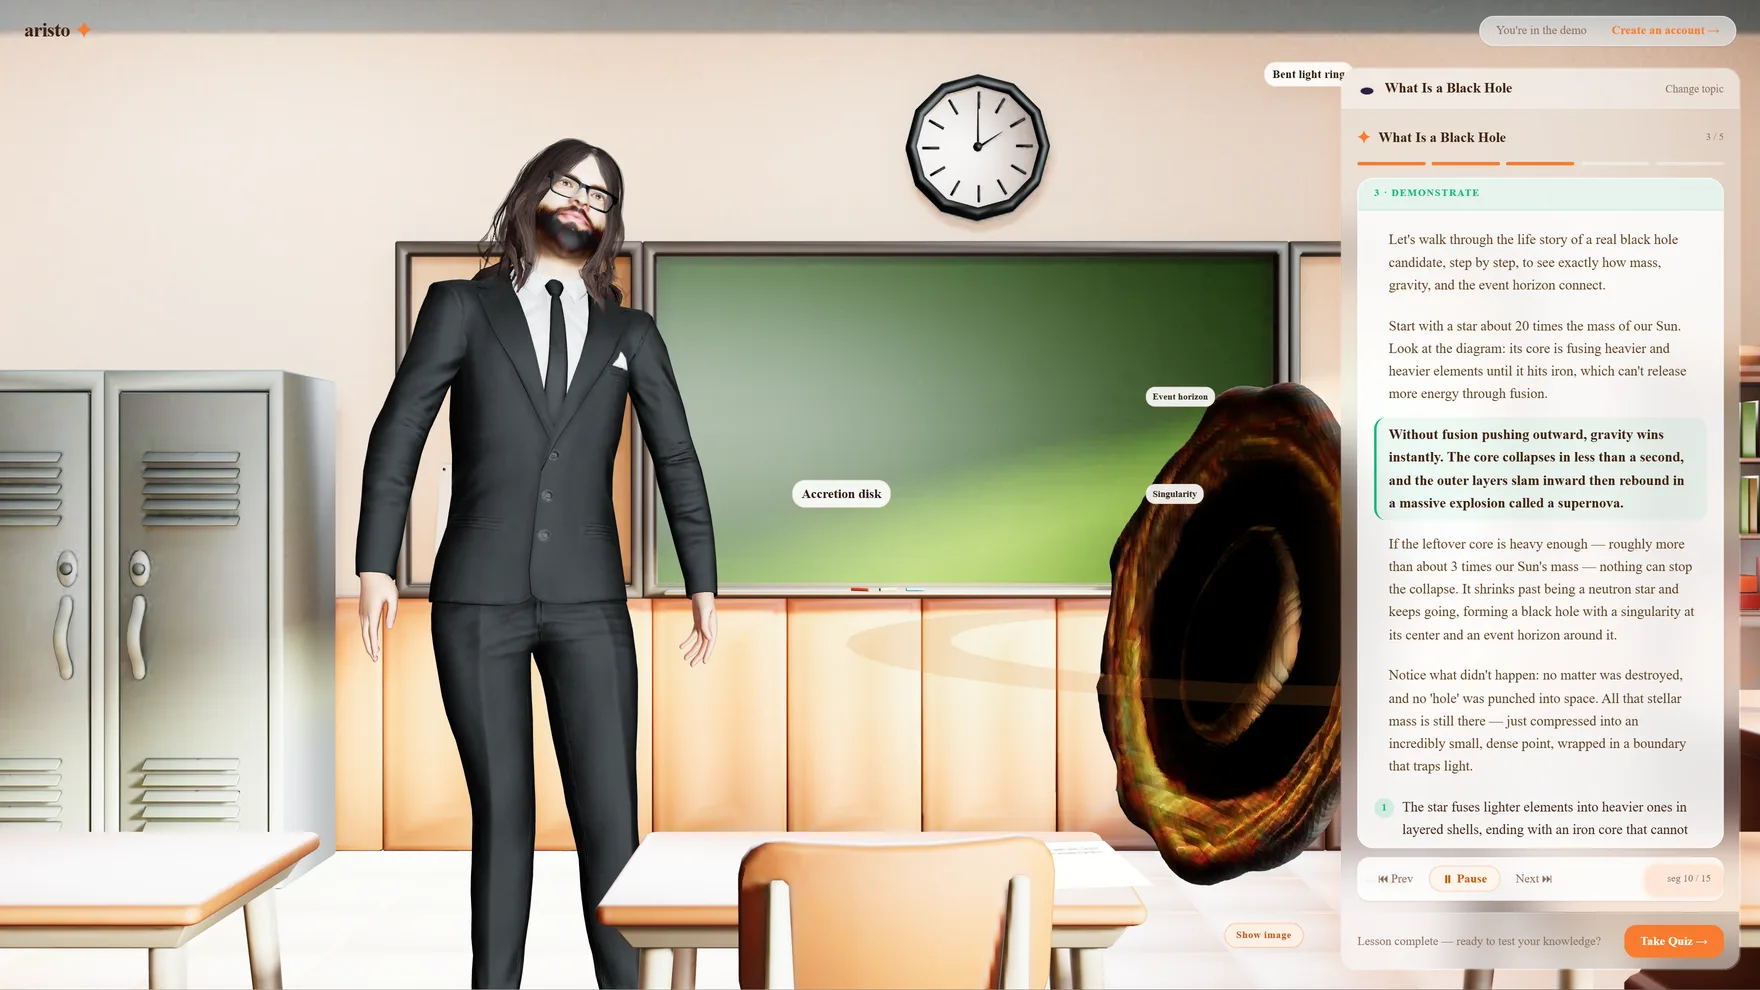
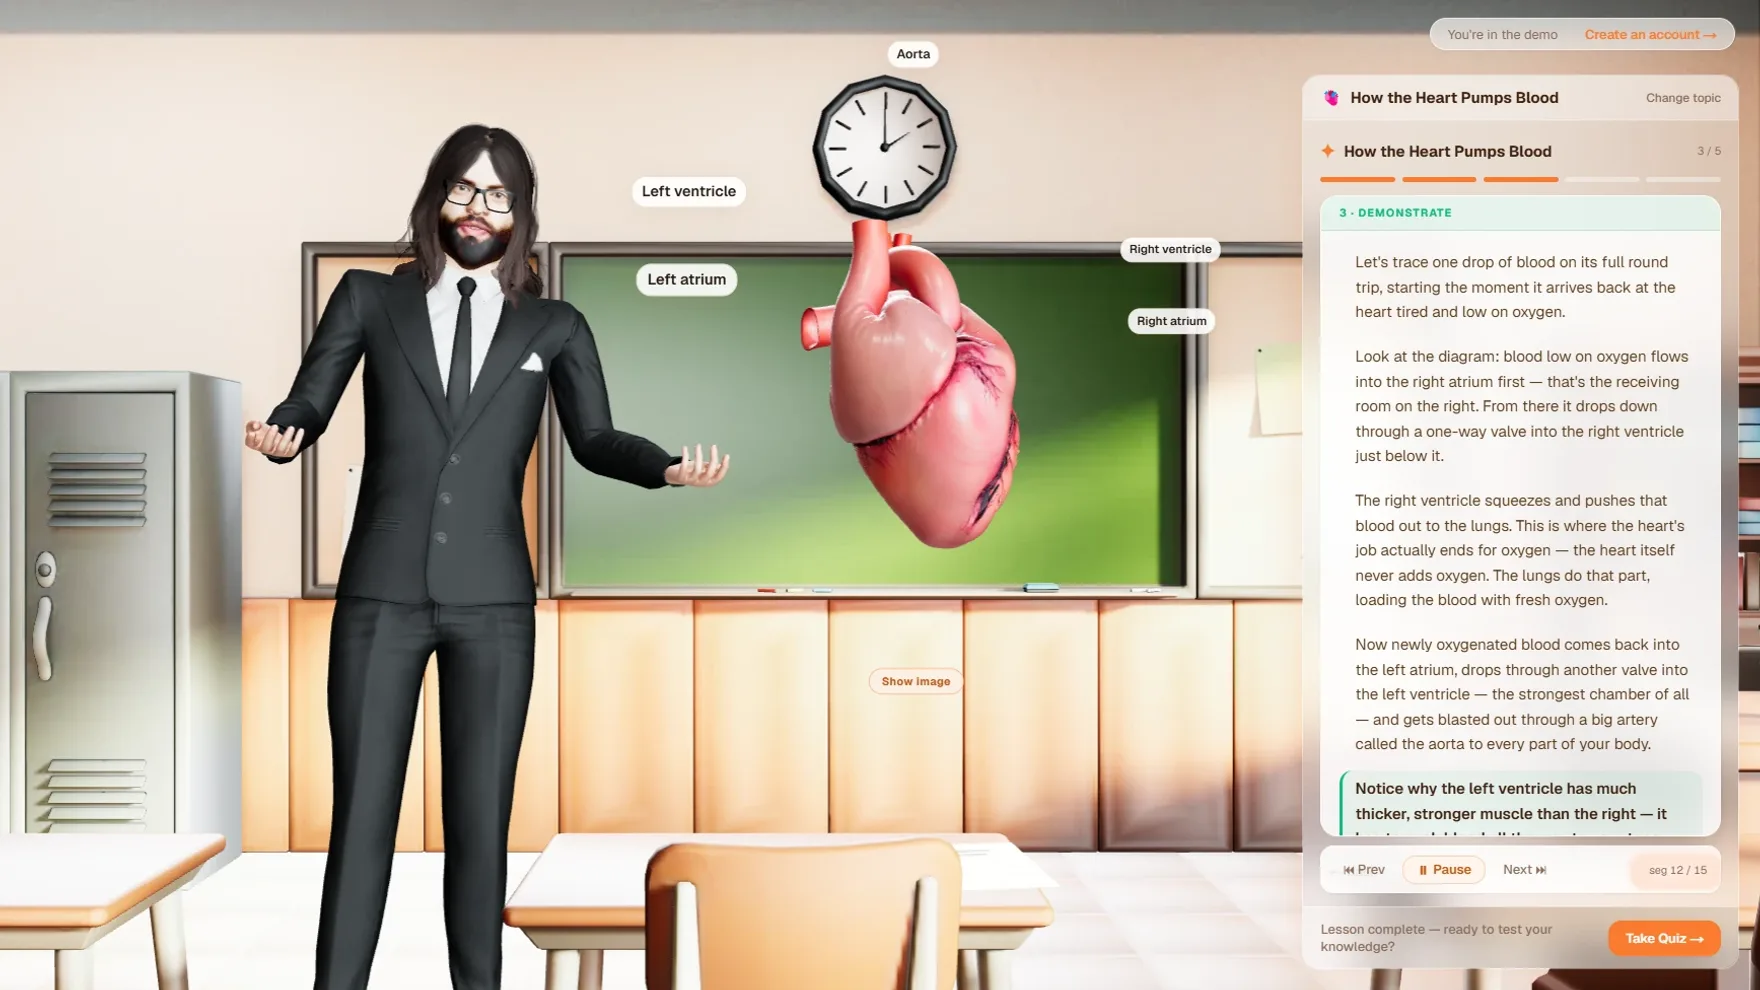
feat(landing): use the real heart-in-3D screenshot, clearing the last blocker
classroom-3d-model.webp was a capture of the old TripoSR black hole, a
model that had been rejected, made by a generator that had been retired,
for a demo topic that no longer exists. It was on the page twice.

Replaced with Hmz's own capture of the heart at the shared anchor, so
the page now shows the model where the lesson actually puts it. Cropped
from the left (lockers and empty floor) rather than squashed, because
the source frame was 1.96:1 against the 1.78:1 the other two landing
shots use, and a mismatched intrinsic aspect would have made the
width/height on next/image reserve the wrong space. 1760x990, 100 KB, in
line with the other two.

Alt text updated in HowItWorks; the bento cell in FeatureGrid is
decorative (alt="" aria-hidden) and needed none.

Also corrects T04b, which had treated the wordmark as a reason to
hesitate over the typography. They are independent: restyling headings
or changing case does not touch the logo. Conflating them would have
held back the main thing that brief exists to do.

diff --git a/src/components/landing/HowItWorks.tsx b/src/components/landing/HowItWorks.tsx
@@ -157,7 +157,7 @@ export function HowItWorks() {
             <div className="px-6 pb-6 sm:px-9 sm:pb-9 lg:px-12 lg:pb-12">
               <Shot
                 src="/images/landing/classroom-3d-model.webp"
-                alt="A generated 3D model standing in the classroom beside the teacher, with its parts labelled in place."
+                alt="The generated 3D heart standing in the classroom beside the teacher, with its chambers and the aorta labelled in place."
                 sizes="(max-width: 1023px) 100vw, 1056px"
               />
             </div>

diff --git a/.claude/plans/T04b-landing-visual-identity.md b/.claude/plans/T04b-landing-visual-identity.md
@@ -14,7 +14,8 @@ It did not touch the *identity*. Hmz's read after seeing it live:
   `--aristo-orange` is `hsl(25 90% 62%)`, and the `design-taste-frontend` skill puts accents
   under 80% saturation by default. The page then uses orange tints on cards, pills, icon
   chips and the closing band, so the saturation compounds.
-- The all-lowercase wordmark reads as boring and undersells the product.
+- The uncapitalised text reads as boring and undersells the product. This is about the
+  page's typography, not the logo: the two are independent.
 - It should feel like "the future of education". Right now it feels like a tidy prototype page.
 - He wants a dark mode, at least for the landing page.
 
@@ -29,20 +30,23 @@ It did not touch the *identity*. Hmz's read after seeing it live:
 - Screenshots in `public/images/landing/` are real captures of `/demo` on a production build.
   If you change how the product looks, they need re-shooting.
 
-## The four things to decide with Hmz
+## The three things to decide with Hmz
 
 1. **Palette.** Desaturate the orange, or move the accent entirely. CLAUDE.md's "Vision"
    section still says pastel orange + cream; Hmz has explicitly opened that up, so update
    CLAUDE.md to match whatever is chosen. Note the constraint that actually binds: the
    product being sold is a warm cream 3D classroom, and the page has to sit next to
    screenshots of it.
-2. **Wordmark.** `aristo ✦` lowercase is rendered inside `/learn` and `/demo` too
-   (`Wordmark.tsx` on the landing side, inline in `LearnClient`/`DemoClient`). Changing it is
-   a product-wide brand change. Decide deliberately.
-3. **Typography.** Currently Geist everywhere, shared with the app through
+2. **Typography.** Currently Geist everywhere, shared with the app through
    `src/lib/fonts.ts`. A display face for headlines is the single biggest lift available.
    The skill bans Fraunces and Instrument_Serif as defaults and discourages serif generally.
-4. **Dark mode.** `globals.css` defines `.dark` values for the shadcn tokens but **not** for
+   Casing is part of this: the page is sentence case throughout and Hmz finds it flat.
+
+   **The wordmark is a SEPARATE decision and is not a blocker here.** Restyling headings,
+   changing the type scale or moving to title case does not touch the logo. (If the mark
+   itself is ever changed, it is rendered in three places: `Wordmark.tsx` on the landing
+   side, inline in `LearnClient` and `DemoClient`. Logistics only.)
+3. **Dark mode.** `globals.css` defines `.dark` values for the shadcn tokens but **not** for
    any `--aristo-*` token, and nothing toggles the class. Doing this properly means designing
    a dark brand palette, not adding `dark:` variants. Decide whether it is landing-only or
    product-wide.
@@ -64,8 +68,9 @@ It did not touch the *identity*. Hmz's read after seeing it live:
 > Load the `design-taste-frontend` skill and the `design` skill. The landing page at
 > src/app/page.tsx + src/components/landing/* was rebuilt structurally in T04 and is fine
 > anatomically, but it looks like a prototype rather than the future of education. I want a
-> visual identity pass: the orange is too saturated (90%), the lowercase wordmark is weak,
-> and I want a dark mode for the landing page.
+> visual identity pass: the orange is too saturated (90%), the type is flat and the
+> sentence-case headings read as boring, and I want a dark mode for the landing page. The
+> logo is a separate thing and is not in scope unless I say so.
 >
 > Audit first, then show me 2-3 genuinely different directions on a design canvas before you
 > write any code. Reference DESIGN.md files live in
